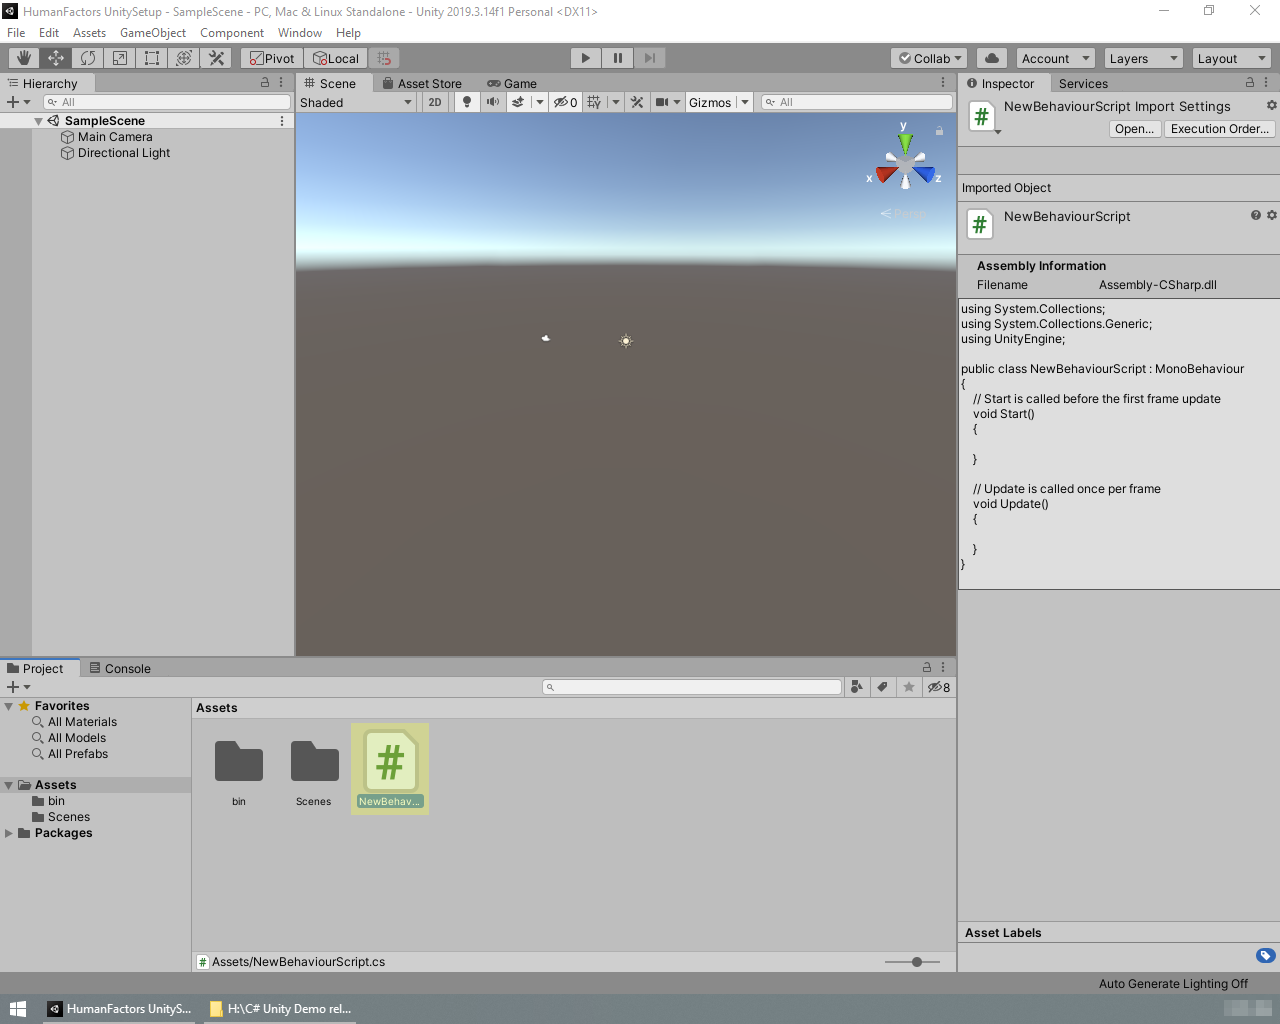
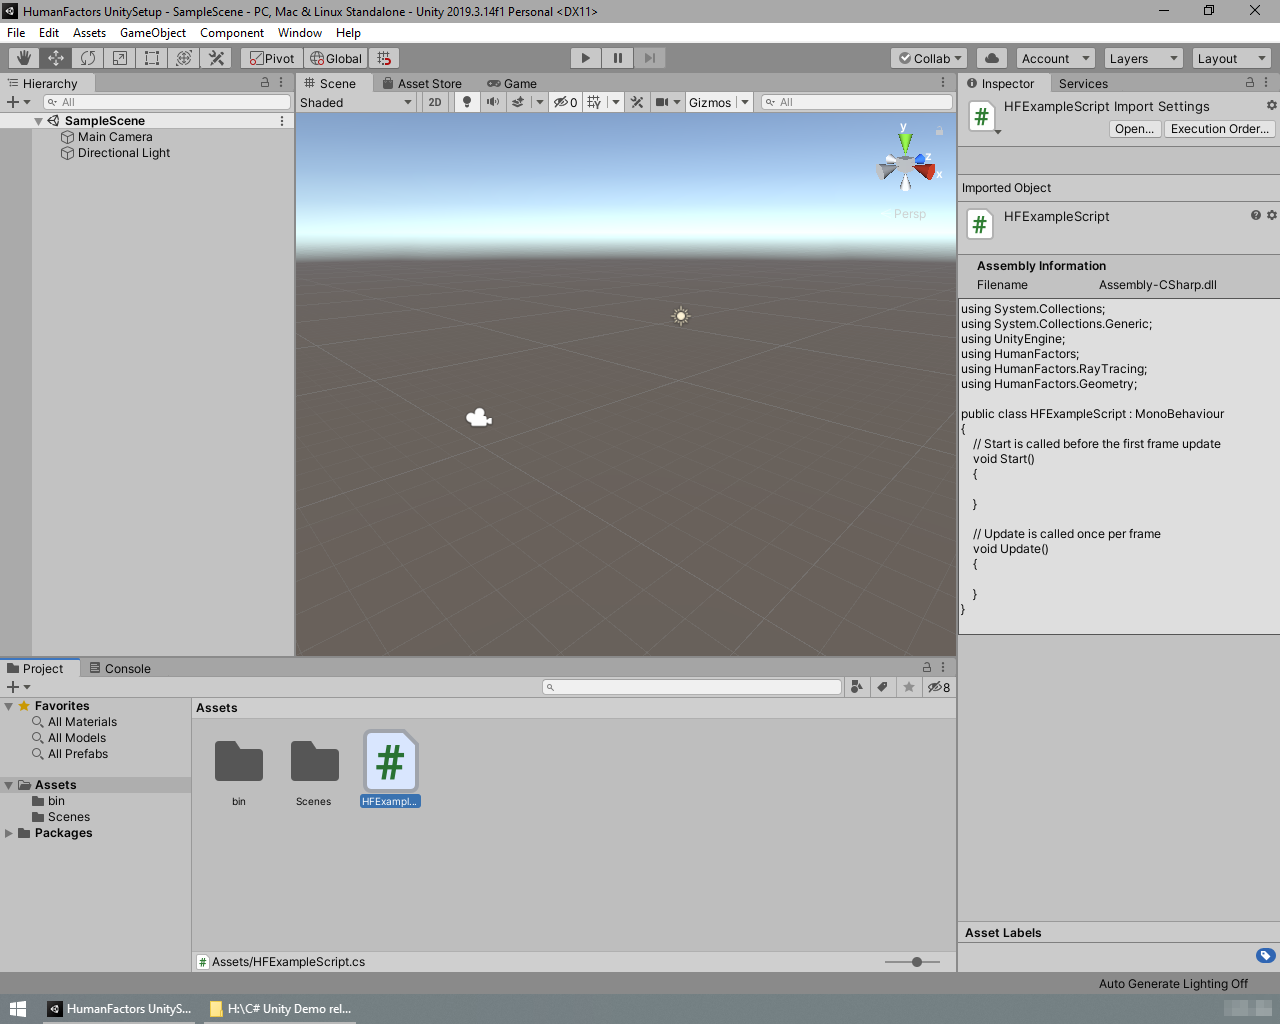
Update image in T1, fix some flow issues.

diff --git a/docs/C# Documentation/markdown/1_unity_project_setup.md b/docs/C# Documentation/markdown/1_unity_project_setup.md
@@ -67,7 +67,7 @@ Now that we have created a blank project, we need to import the HumanFactors' bi
 
 Unzip the HumanFactors release package to another location (Don't try to drag and drop assets from a zipped folder, you will get an error), then, as shown in Figure 1.4, drag the `bin` folder from the location you extracted the release to into the Unity Editor's assets window. Once you've done this, Unity should display the *bin* folder alongside the existing *Scenes* folder.
 
->**NOTE**: If you accidentally drag the bin folder into the *Scenes* or anywhere else that would cause two copies of the same dll to exist at the same time, delete them before proceding. Multiple copies of the same DLL will cause conflicts and may result in Unity being unable to load it in the future steps. You'll know this has happened if you see the following error `Multiple plugins with the same name 'humanfactors' (found at 'Assets/Scenes/bin/HumanFactors.dll' and 'Assets/bin/HumanFactors.dll')...` at the bottom of the screen.
+>**NOTE**: If you accidentally drag the bin folder into the *Scenes* folder or anywhere else that would cause two copies of the same dll to exist at the same time, delete any duplicates before proceding. Multiple copies of the same DLL will cause conflicts and may result in Unity being unable to load it in the future steps. You'll know this has happened if you see the following error `Multiple plugins with the same name 'humanfactors' (found at 'Assets/Scenes/bin/HumanFactors.dll' and 'Assets/bin/HumanFactors.dll')...` at the bottom of the screen.
 >![Duplicate DLL Error](../assets/walkthroughs/unity/1_project_setup/duplicate_dll_error.png)
 >![Delete Image](../assets/walkthroughs/unity/1_project_setup/delete.png)
 
@@ -87,7 +87,7 @@ Right click on a blank space in the assets window, hover over *Create*, then cli
 
 Looking in the assets window, you should notice a new script file next to Scenes directory titled NewBehaviourScript.cs by default, and the name of it is highlighted in blue indicatign that you can rename it. Rename the script to HFExampleScript.cs.
 
->**NOTE:** If you didn't name the file properly, don't worry. You can change the name of the script by right clicking on it and clicking *Rename*.
+>**NOTE:** If you didn't name the file properly you can change the name of the script by right clicking on it and clicking *Rename*.
 >![Rename Dialog](../assets/walkthroughs/unity/1_project_setup/../2_raycast_at_plane/rename_dialog.png)
 
 !["Double Click On Script"](../assets/walkthroughs/unity/1_project_setup/double_click_on_script.png)
